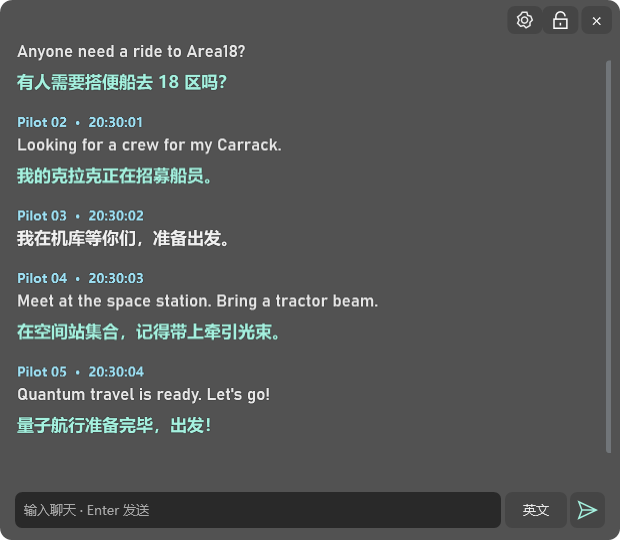
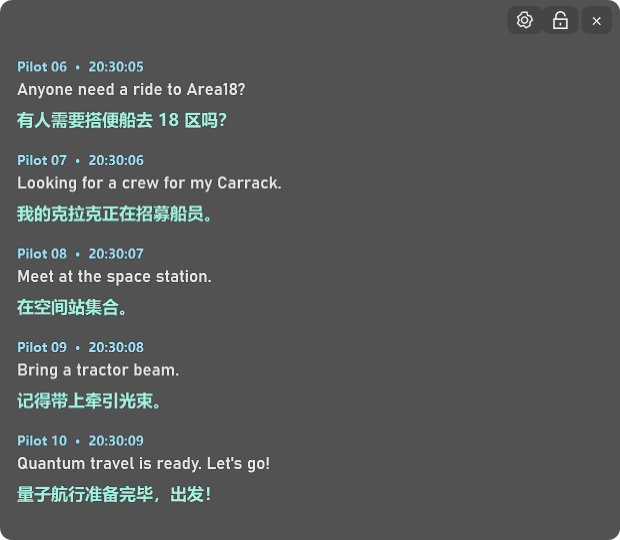
Make README the illustrated project introduction and usage guide

diff --git a/README.md b/README.md
@@ -1,86 +1,171 @@
 # 星际公民聊天翻译 · SCChatTranslator
 
-Windows 独立聊天翻译浮窗。读取当前角色已加入的公开服务器聊天，显示原文和简体中文译文。无需修改游戏，默认本地翻译，支持系统托盘。
+Windows 独立聊天翻译浮窗：读取当前角色已加入的公开服务器频道，显示原文和简体中文译文；也支持输入中文，自动翻译为英文后发送。
 
-![界面](docs/overlay.png)
+**无需修改游戏，无需安装 Python。** 默认使用内置本地模型，也可选择 Windows 本地 Hy-MT3，或连接 Mac / 其他服务器上的翻译 API。
 
-## 下载与使用
+**[下载最新版 EXE](https://github.com/LouieLumi/SCChatTranslator/releases/latest/download/SCChatTranslator.exe)** · [全部版本与校验文件](https://github.com/LouieLumi/SCChatTranslator/releases) · [离线配图说明](https://github.com/LouieLumi/SCChatTranslator/releases/latest/download/usage.html)
 
-[下载离线配图使用说明（HTML）](https://github.com/LouieLumi/SCChatTranslator/releases/latest/download/usage.html)，双击可用浏览器查看，图片已内嵌。
+![聊天翻译浮窗](docs/overlay.png)
 
-从 [Releases](https://github.com/LouieLumi/SCChatTranslator/releases/latest) 下载 `SCChatTranslator.exe`，双击运行。支持 Windows 10/11 x64；首次启动解压内置运行环境和 Argos 英译中模型，之后直接启动，无需安装 Python。
+*配图为本程序的独立演示界面，使用示例消息，不含真实玩家聊天或登录信息。*
 
-1. 用 RSI Launcher 正常登录并进入服务器。
-2. 打开 EXE，自动寻找运行中的游戏目录；找不到时在齿轮设置中选择 `LIVE` 目录。
-3. 频道默认为“自动跟随当前服务器”。如果账户返回多个公开频道，可以在设置中手动选择。
-4. 解锁后拖动窗口上沿、拖动边缘缩放；锁定后固定位置并保持置顶。解锁时仍保持置顶，方便在游戏上方调整。
-5. 透明度、频道、翻译引擎都在设置中。建议游戏使用无边框窗口模式；独占全屏不保证普通桌面浮窗可见。
-6. 设置中的“显示原文”可关闭外语原文；中文消息仍直接显示。右上角三个按钮在移入时淡入，离开 3 秒后渐隐。
-7. 点击 `×` 隐藏到 Windows 通知区域，读取继续运行。双击托盘图标显示窗口，右键可打开设置、锁定/解锁或**退出**。图标也可能在 Windows 的 `^` 隐藏图标列表中。
+## 功能
 
-消息区滚动条默认隐藏，收到新消息自动滚动时也不显示。使用鼠标滚轮查看聊天时淡入，最后一次滚轮操作结束 3 秒后淡出。向上查看历史后，可点击“↓ 最新”回到最新消息。
+- 读取当前账号已加入的公开服务器聊天，显示原文和中文译文；已有中文及兼容汉化编码直接显示中文。
+- 黑色透明浮窗、可调背景透明度、移动与缩放、锁定置顶、系统托盘后台运行。
+- “中 / 英”点击切换，回车打开输入框、发送或收起，切换窗口保留未发送草稿。
+- F12 每次确认原生聊天框状态；原生聊天框显示时保留游戏输入，隐藏时可使用本程序输入。
+- 内置 Argos 中英双向模型与 4,262 条精选游戏术语，支持本地 Hy-MT3 及自定义翻译 API。
+- 滚动条只在鼠标滚轮滚动时显示，停止 3 秒后淡出；消息自动滚动不会显示滚动条。
 
-运行 `SCChatTranslator.exe --demo` 可打开独立演示窗口，使用内置示例聊天，不读取游戏会话。演示中的示例译文经过人工整理，不代表各模型逐字输出。
+## 下载与开始使用
 
-## 翻译引擎
+运行环境：**Windows 10 / 11 x64**，已安装并正常登录《星际公民》。建议游戏使用**无边框窗口**模式。
 
-| 模式 | 运行位置 | 首次下载 | 数据去向 |
+1. 在 [最新 Release](https://github.com/LouieLumi/SCChatTranslator/releases/latest) 下载 **SCChatTranslator.exe**。无需下载源码 ZIP，也无需手动安装 Python。
+2. 使用 RSI Launcher 正常登录并进入游戏服务器。
+3. 双击 EXE。首次打开会准备内置运行环境和模型，等待进度完成；之后直接启动。
+4. 程序自动寻找运行中的游戏目录。没有识别到时，打开右上角齿轮，在“游戏 LIVE 目录”中选择 LIVE 下的 `loginData.json`，或 `Bin64` 下的 `StarCitizen.exe`。
+5. 默认使用“自动跟随当前服务器”。账号返回多个公开频道时，在设置中手动选择对应频道。
+
+更新时，用新版 EXE 替换旧版再启动，原有设置保留。离线配图说明 `usage.html` 的图片已内嵌，下载后可用浏览器直接打开。
+
+## 窗口与滚动
+
+| 操作 | 作用 |
+|---|---|
+| 齿轮按钮 | 打开频道、翻译模型、原文显示、透明度及快捷键设置 |
+| 锁图标 | 点击锁定 / 解锁位置；解锁后拖动窗口上沿移动，拖动边缘缩放；两种状态均保持置顶 |
+| 右上角 × | 隐藏到系统托盘，继续后台读取 |
+| 托盘图标 | 双击恢复窗口；右键可显示窗口、打开设置或彻底退出。图标可能位于 Windows 的 `^` 隐藏图标列表中 |
+| 鼠标移到右上角按钮处 | 三个按钮淡入；离开 3 秒后淡出 |
+| 鼠标滚轮 | 滚动查看历史，同时显示细滚动条；停止 3 秒后淡出 |
+| “↓ 最新” | 回到最新消息；自动滚动不会唤出滚动条 |
+
+设置里的“显示原文”可隐藏外语原文；中文消息仍直接显示。透明度只影响背景，文字保持清晰。
+
+## 输入与发送
+
+![输入框与中英切换](docs/input.png)
+
+输入框默认隐藏。可以点击本程序窗口后按 **Enter** 打开；要在游戏前台使用回车打开，先按下一节设置 F12 联动。
+
+| 操作 | 结果 |
+|---|---|
+| 按 Enter 打开输入框 | 显示并聚焦；保留上次未发送的草稿 |
+| 点击“中 / 英” | 直接切换发送语言，不弹下拉菜单 |
+| 输入后按 Enter 或点击箭头 | 发送到当前已加入的公开频道；成功后清空并隐藏 |
+| 空内容或只有空格时按 Enter | 直接隐藏，不发送消息 |
+| 按 Esc、点击回到游戏或切换窗口 | 收起输入框，保留草稿，下次按 Enter 继续编辑 |
+| 发送失败 | 保留草稿并显示错误；不自动重试 |
+
+### “中”与“英”有什么区别？
+
+- **中：** 读取本机已有汉化字库，将中文转换为 `[zh] @…` 社区输入编码。接收方加载兼容的社区输入法码表后才能还原成中文；没有对应码表时可能看到编码。字库缺字时会阻止发送并保留草稿。
+- **英：** 将中文翻译成英文后发送；已经是英文的内容保持原文。与国际玩家交流可以选择这一模式。API / Hy 不可用时回退到内置 Argos 中译英模型；翻译不完整时保留草稿。
+
+编码机制已对照 [SC 盒子编码器](https://github.com/StarCitizenToolBox/app/blob/main/lib/ui/home/input_method/input_method_encoder.dart) 与 [码表加载逻辑](https://github.com/StarCitizenToolBox/app/blob/main/lib/ui/home/localization/localization_ui_model.dart)。本程序使用自己的只读字典解析和聊天服务发送实现，不修改游戏文件。
+
+发送前会检查当前账号仍在所选频道。出现网络超时时，服务端可能已收到消息，应先查看频道再决定是否重发。重启前的发送请求不会自动重放。
+
+## F12 / 回车联动
+
+1. 打开设置，勾选 **“F12 状态确认 / 回车输入”**，点击“保存并应用”。
+2. 回到游戏按 **F12**。按键先交给游戏，随后弹出状态确认框。
+3. 根据游戏画面选择 **“已隐藏”** 或 **“仍显示”**。
+
+![F12 状态确认](docs/f12.png)
+
+| 选择 | 回车行为 |
+|---|---|
+| 已隐藏 | 在游戏里按回车打开本程序输入框，再按回车发送 |
+| 仍显示 | 保持游戏原生输入行为 |
+| 未选择 / 状态未知 | 不接管回车 |
+
+**每次在游戏前台按 F12 都会询问。** 这是用户确认后的状态同步，不是读取游戏画面。程序或游戏重启后需要重新确认；若通过游戏菜单等方式改了聊天框状态，请再次按 F12 确认，或在设置修正状态。其他程序的键盘和修饰组合键不接管。
+
+## 设置与翻译模型
+
+<img src="docs/settings.png" alt="聊天频道、模型、快捷键与透明度设置" width="570">
+
+| 模式 | 运行位置 | 首次准备 | 数据去向 |
 |---|---|---|---|
-| Argos 中英双向 1.9（默认） | Windows CPU，本地离线翻译 | 双向模型已内置 | 聊天不发给翻译服务 |
-| Hy-MT3 1.8B | Windows CPU，2 线程 | 约 1.35 GB 模型和 25 MB 运行时，支持续传与 SHA-256 校验 | 本地环回 API |
-| 自定义 API | 你指定的 Mac / 服务器 | 无 | 将原文及匹配的术语发给你填写的服务 |
+| Argos 中英双向 1.9（默认） | Windows CPU | 模型已内置，无需另行下载 | 不发送到翻译服务 |
+| Hy-MT3 1.8B | Windows CPU，2 线程 | 下载约 1.35 GB 模型及约 25 MB 运行组件，支持续传与 SHA-256 校验 | 本机环回 API |
+| 自定义 API | 你指定的 Mac / 服务器 | 填写地址、密钥（如需）和模型 | 将待翻译文字及匹配术语发送到所填服务 |
 
-自定义接口需兼容 `/v1/chat/completions`。填写 API 地址、密钥和模型名称，支持读取模型列表和测试连接。Windows 本机 Hy 暂按 CPU 运行，不使用游戏显存。Hy 准备期间或 API 失败时会回退到 Argos；默认 Argos 主要用于英语→中文。
+本地 Hy 暂按 CPU 运行，不使用游戏显存。Hy 准备期间或 API 失败时回退到 Argos。修改设置后点击**“保存并应用”**；直接关闭设置会取消未保存的调整。
 
-内置 4,262 条精选中英术语（4,253 条来自公开社区词库，另补充 9 条）；不是原表每一行的完整镜像。Hy/API 使用与消息匹配的词条作提示；Argos 使用整句翻译和保守术语修正。中文消息直接显示；汉化编码需读取本机已有 `data/Localization/chinese_(simplified)/global.ini`，未知编码保留原文。程序不安装汉化、不更改游戏文件。
+### 连接 Mac / 其他翻译 API
 
-## 发送聊天
+1. “翻译模型”选择 **“自定义翻译 API · Mac / 其他服务”**。
+2. 填写兼容 Chat Completions 的服务地址，可使用 `http://你的服务器IP:端口/v1` 或完整 `/v1/chat/completions` 地址。
+3. 如需认证，填写 API 密钥；点击“获取模型”后选择，或手动填写模型名称。
+4. 点击“测试翻译连接”，成功后“保存并应用”。
 
-输入框默认隐藏。原生聊天框确认隐藏后，在游戏中按 Enter 显示并聚焦输入框，再按 Enter 发送；也可在本程序窗口按 Enter 打开输入框。空内容（含纯空白）按 Enter 直接收起并返回游戏，不发送消息。发送成功后清空并隐藏，发送失败保留草稿。Esc、点击回到游戏或切换到其他窗口时收起输入框，保留未发送的草稿，下次按 Enter 可继续编辑。隐藏输入框时，消息区自动填满下方空间。
+<details>
+<summary>查看 API 设置示意图</summary>
 
-输入框后的“中 / 英”按钮点击即切换，没有下拉菜单；点箭头或按 Enter 发送。
+<img src="docs/api.png" alt="自定义 API 设置，使用占位示例且不含密钥" width="570">
 
-- 中文：从本机汉化字库反查并生成 `[zh] @…` 编码，字库缺字时阻止发送并保留草稿。接收方必须加载兼容的社区输入法码表才能还原成中文；仅安装盒子程序不代表游戏已加载码表，未加载时可能看到编码。
-- 英文：将中文译为英文后发送；已是英文的内容保持原文。API/Hy 不可用时回退到内置 Argos 中译英模型。翻译不完整则保留草稿，不直接把中文冒充英文发送。
-- 服务端会重新检查当前账号是否仍在该公开频道；切换频道、过期请求、发送失败都保留草稿。
-- 不自动重试、不重放重启前的发送请求。网络超时可能发生在服务端收到消息之后，应先查看频道再决定是否重发。
-- 发送使用非公开稳定协议，接口变更或服务端权限限制可能使发送不可用；不会以其他账号或绕过权限重试。
+</details>
 
-编码机制已对照 [SC 盒子的社区输入编码器](https://github.com/StarCitizenToolBox/app/blob/main/lib/ui/home/input_method/input_method_encoder.dart) 与 [码表加载逻辑](https://github.com/StarCitizenToolBox/app/blob/main/lib/ui/home/localization/localization_ui_model.dart)。本程序继续使用自己的只读字典解析与游戏聊天服务发送实现，不模拟在游戏里粘贴，也不改动游戏文件。
+### 中文与游戏术语
 
-## F12 / 回车联动（每次确认）
+内置 **4,262 条精选中英术语**（4,253 条来自公开社区词库，另补充 9 条），并非原表所有行的完整镜像。Hy / API 将匹配词条作为提示；Argos 使用整句翻译和保守术语修正。
 
-在设置中开启“F12 状态确认 / 回车输入”。每次在游戏前台按 F12，按键先交给游戏，然后弹出两个按钮：
+汉化编码依赖本机已有 `data/Localization/chinese_(simplified)/global.ini`，未知编码保留原文。本程序不安装汉化，也不改动游戏内容。
 
-- **已隐藏**：第一次回车激活本程序输入框；输入后第二次回车按所选语言发送并返回游戏。Esc 取消输入焦点并返回游戏，保留草稿。
-- **仍显示**：回车保留游戏原生输入行为。
+## 账号鉴权与换电脑使用
 
-没有选择、按 Esc 关闭确认框、程序或游戏刚重启时，状态为“未知”，不接管回车。其他程序的键盘和修饰组合键不接管。
+**EXE 没有内置开发者或其他玩家的账号令牌，也不需要 GPT 现场抓取 key。每台电脑使用自己的游戏登录会话。**
 
-这是由用户每次确认的状态联动，不是直接读取游戏界面；聊天服务没有显隐字段。若通过菜单或其他方式改变原生聊天框状态，请再次按 F12 后确认，或在设置修正当前状态。
+运行流程：
 
-## 实现与边界
+1. 从所选 LIVE 目录的 `loginData.json` 读取**本机当前登录状态及官方服务地址**。
+2. 向官方身份服务鉴权，取得当前角色会话。
+3. 查询当前账号已经加入的公开服务器频道；只有一个时自动选择，多个时手动选择。
+4. 使用本次会话连接聊天服务，读取消息，并处理用户明确发出的发送请求。
 
-- 只读游戏 `loginData.json` 中当前登录会话；只发送到严格校验的官方游戏服务 HTTPS 域名。
-- 经 TLS/gRPC 获取当前角色、其已加入的公开服务器频道及消息。不加入频道、不读取私聊。仅在用户点击发送或在本程序输入框按回车时，向当前已加入的公开频道发送消息。
+登录信息变更或令牌到期时会重新鉴权；频道列表定期刷新。账号令牌仅用于运行内存，不写入程序源码或分发的 EXE，也不另外保存到应用配置。
+
+**复制到另一台 Windows 电脑：** 先正常登录游戏并进入服务器，再打开 EXE；识别不到游戏时选择 LIVE 目录。内置 Argos 直接可用；如需调用 Mac / 服务器翻译 API，在新电脑另填服务地址、模型和所需密钥。
+
+游戏会话与翻译 API 密钥是两回事。个人设置、API 密钥和临时聊天状态保存在 `%LOCALAPPDATA%\SCChatTranslator`；API 密钥目前是用户目录内的明文配置。分享 EXE 即可，请勿把个人配置目录一起公开。
+
+## 常见问题
+
+**没有消息 / 频道不对：** 确认已经进入服务器，再检查 LIVE 目录和所选频道；返回多个公开频道时手动选择。
+
+**按回车没有打开输入框：** 检查是否开启并保存 F12 联动，在游戏前台按 F12 后确认“已隐藏”。选择“仍显示”或状态未知时，回车会留给游戏。
+
+**进游戏后看不到浮窗：** 尝试将游戏设为无边框窗口。独占全屏不保证普通桌面浮窗可见。
+
+**点击 × 后窗口消失：** 在任务栏右下角或 `^` 隐藏图标中找到托盘图标，双击恢复。
+
+## 实现范围
+
+- 只读本机游戏登录文件，仅把游戏会话发送到严格校验的官方 HTTPS 服务域名。
+- 通过 TLS/gRPC 获取当前角色、公开频道与消息；不加入频道、不读取私聊。
 - 不使用 OCR、不注入、不读取游戏进程内存、不解密抓包。
-- 频道来自账号服务返回的成员关系；多个频道时无法保证仅靠成员关系唯一定位当前场景，应手动选择。
-- 游戏接口不是公开承诺兼容的第三方 API；协议更新可能使读取失效。本工具为非官方独立项目，不代表 CIG/RSI 或汉化组认可。
-
-设置、密钥和临时聊天状态保存在 `%LOCALAPPDATA%\SCChatTranslator`。API 密钥目前是用户目录内的明文配置，请勿公开该目录。登录令牌只用于会话内存，不写入应用配置。关闭托盘中的“退出”会停止本程序拥有的读取与翻译子进程。
+- 只在用户点击发送或输入内容后按回车时发送，不自动重试或重放。
+- 游戏服务接口未承诺对第三方兼容，游戏更新或权限变化可能影响读取和发送。本工具为非官方项目，不代表 CIG / RSI 或汉化组认可。
 
 ## 从源码构建
 
-构建机安装 Python 3.12+ 和 Windows 自带 .NET Framework 4.x 编译器；执行：
+普通用户下载 Release EXE 即可。构建需要 Windows x64、Python 3.12+ 和 Windows 自带 .NET Framework 4.x 编译器：
 
 ```powershell
 python tools/prepare.py
 python tools/build.py
 ```
 
-构建脚本下载固定版本的 Python Windows 嵌入式运行时、依赖和模型，验证 `dependencies.json` 中的 SHA-256，生成 `dist/SCChatTranslator.exe`。依赖较大，首次构建需要联网。普通用户直接使用 Release EXE 即可。
+脚本下载并校验固定版本的运行环境、依赖及模型，生成 `dist/SCChatTranslator.exe`。首次构建需要联网。
 
-源码演示自检：`build/payload/SCChatUI.exe --demo --smoke-test`。结果写入 `%LOCALAPPDATA%\SCChatTranslator-Demo\data\ui-smoke.json`。
+演示运行：`SCChatTranslator.exe --demo`，使用示例聊天，不读取游戏会话。示例译文用于界面说明，不代表模型逐字输出。
+
+演示自检：`build/payload/SCChatUI.exe --demo --smoke-test`，结果在 `%LOCALAPPDATA%\SCChatTranslator-Demo\data\ui-smoke.json`。
 
 ## 许可与署名
 
